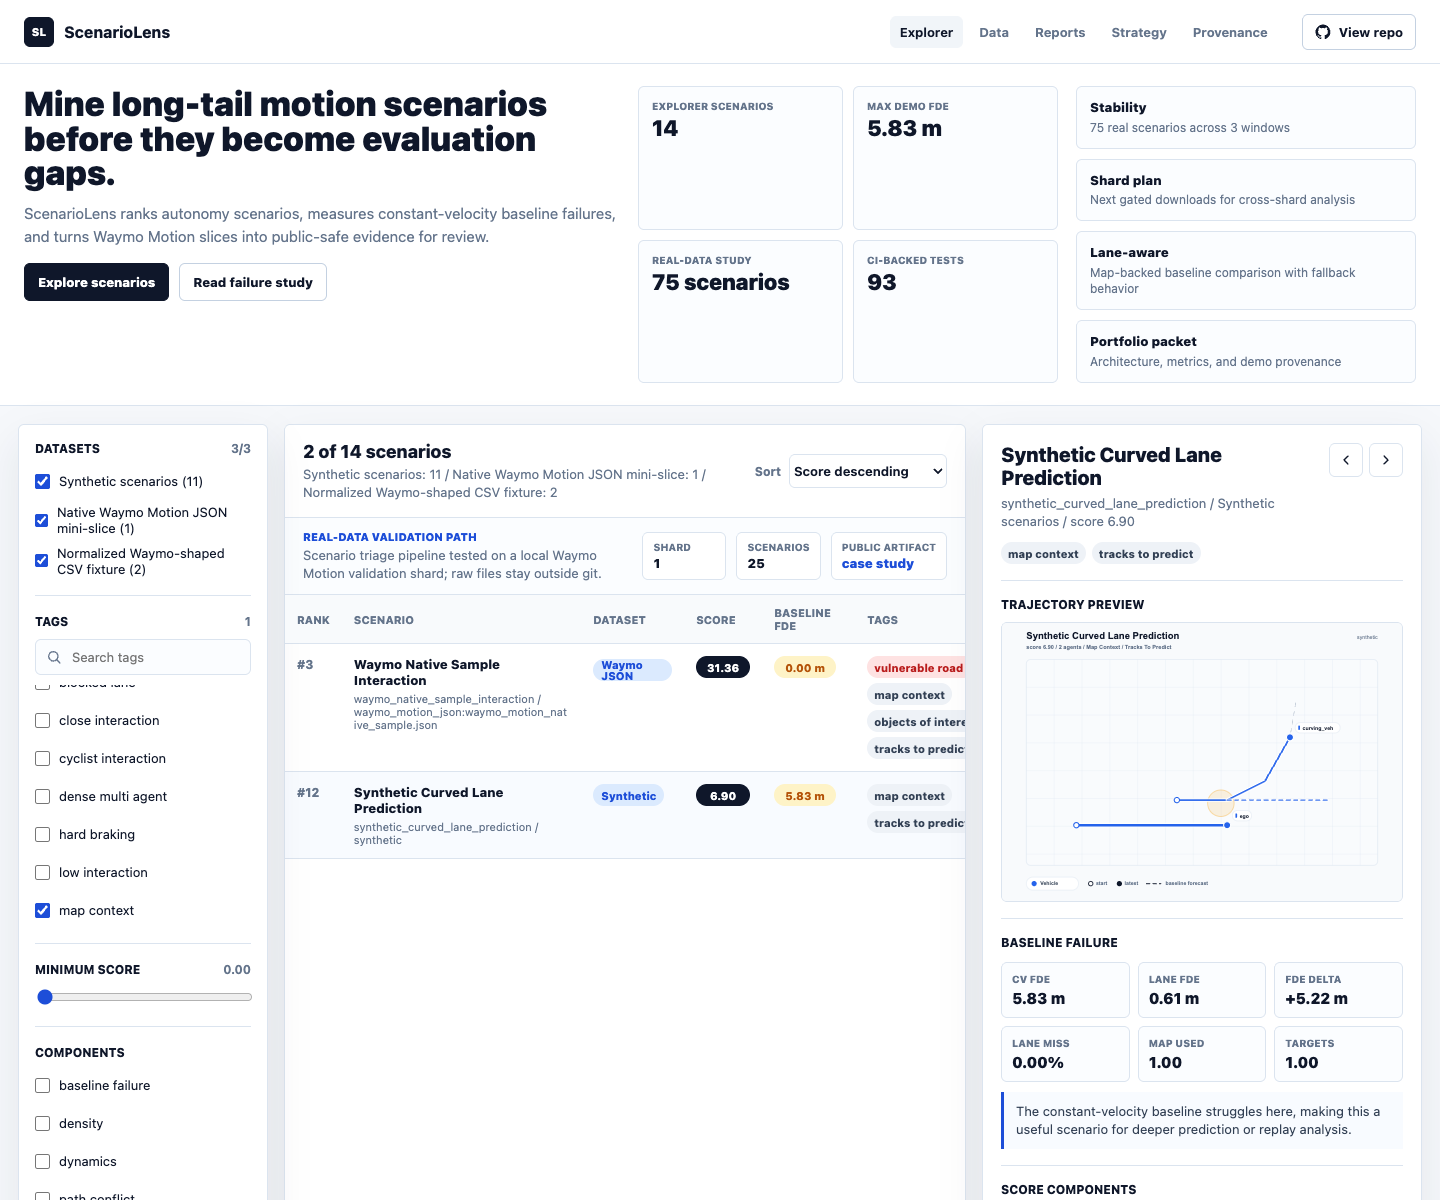
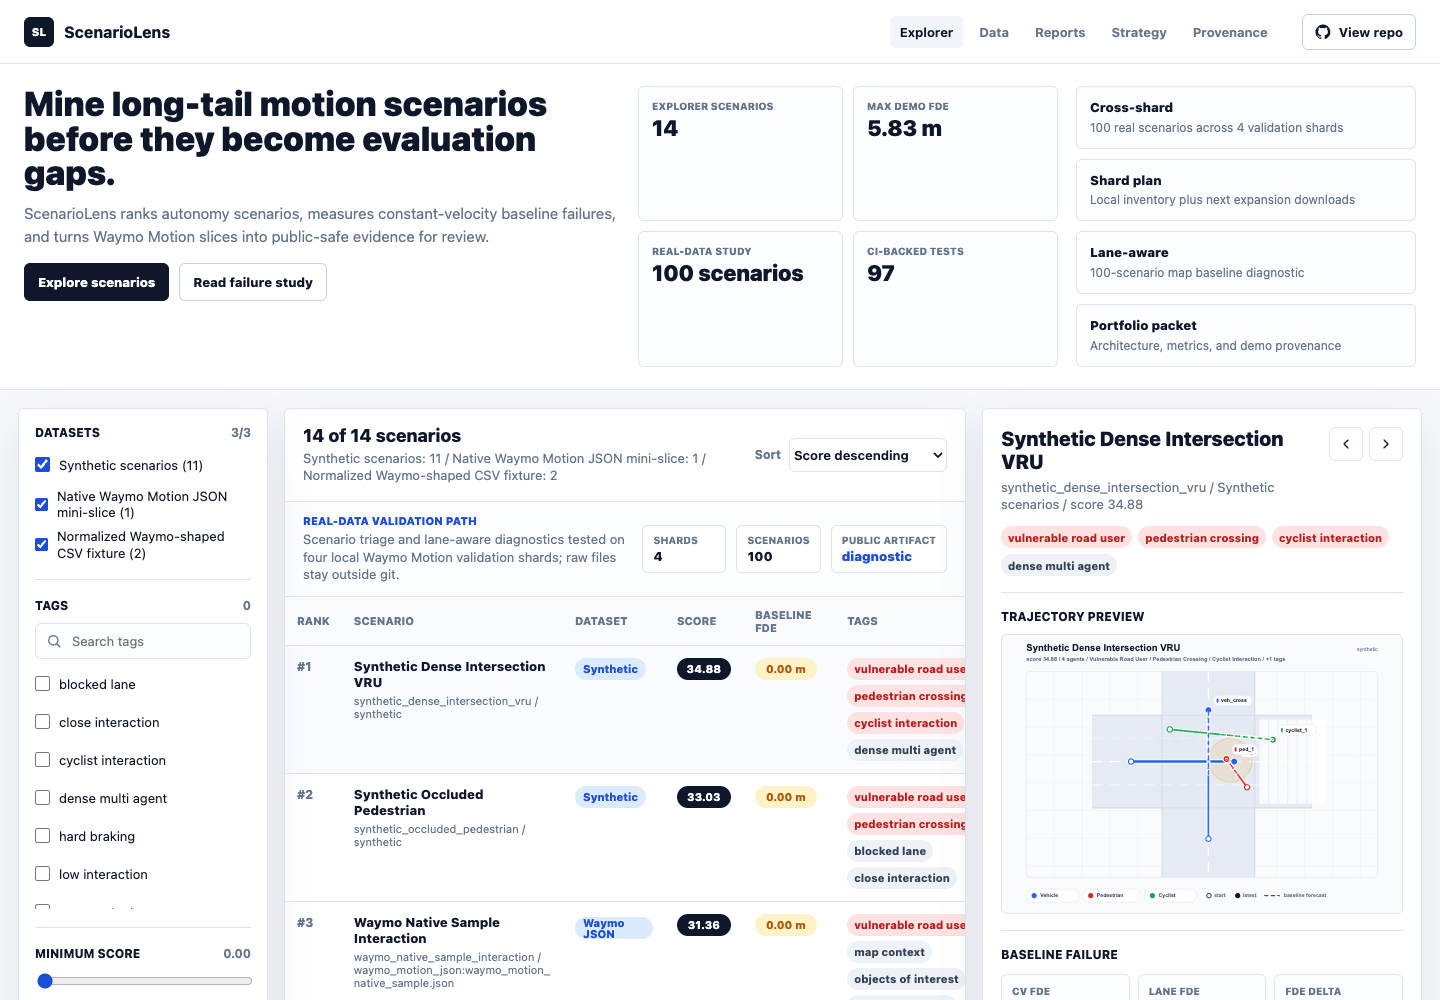
Update ScenarioLens lane-aware demo route

diff --git a/public/scenariolens/index.html b/public/scenariolens/index.html
@@ -57,7 +57,7 @@
           </div>
           <div>
             <dt>CI-backed tests</dt>
-            <dd>94</dd>
+            <dd>97</dd>
           </div>
         </dl>
         <div class="report-rail" aria-label="Public evidence reports">
@@ -69,9 +69,9 @@
             <span>Shard plan</span>
             Local inventory plus next expansion downloads
           </a>
-          <a href="https://github.com/ethanvillalovoz/scenariolens/blob/main/docs/reports/lane_aware_baseline_study.md">
+          <a href="https://github.com/ethanvillalovoz/scenariolens/blob/main/docs/reports/waymo_lane_aware_baseline_cross_shard.md">
             <span>Lane-aware</span>
-            Map-backed baseline comparison with fallback behavior
+            100-scenario map baseline diagnostic
           </a>
           <a href="https://github.com/ethanvillalovoz/scenariolens/blob/main/docs/reports/portfolio_report.md">
             <span>Portfolio packet</span>
@@ -149,20 +149,20 @@
           <section class="credibility-panel" aria-label="Real-data validation status">
             <div>
               <span class="credibility-kicker">Real-data validation path</span>
-              <p>Scenario triage pipeline tested on a local Waymo Motion validation shard; raw files stay outside git.</p>
+              <p>Scenario triage and lane-aware diagnostics tested on four local Waymo Motion validation shards; raw files stay outside git.</p>
             </div>
             <dl>
               <div>
-                <dt>Shard</dt>
-                <dd>1</dd>
+                <dt>Shards</dt>
+                <dd>4</dd>
               </div>
               <div>
                 <dt>Scenarios</dt>
-                <dd>25</dd>
+                <dd>100</dd>
               </div>
               <div>
                 <dt>Public artifact</dt>
-                <dd><a href="https://github.com/ethanvillalovoz/scenariolens/blob/main/docs/reports/waymo_motion_case_study.md">case study</a></dd>
+                <dd><a href="https://github.com/ethanvillalovoz/scenariolens/blob/main/docs/reports/waymo_lane_aware_baseline_cross_shard.md">diagnostic</a></dd>
               </div>
             </dl>
           </section>

diff --git a/public/scenariolens/README.md b/public/scenariolens/README.md
@@ -41,8 +41,9 @@ The explorer also links to
 [`docs/reports/waymo_motion_case_study.md`](https://github.com/ethanvillalovoz/scenariolens/blob/main/docs/reports/waymo_motion_case_study.md)
 as the public-safe summary of the local real Waymo Motion smoke test.
 The first viewport links to the failure study, cross-shard stability study,
-shard expansion plan, lane-aware comparison study, and portfolio packet so reviewers can jump
-from the product surface to the evidence behind it.
+shard expansion plan, real lane-aware cross-shard diagnostic, and portfolio
+packet so reviewers can jump from the product surface to the evidence behind
+it.
 
 Regenerate with:
 